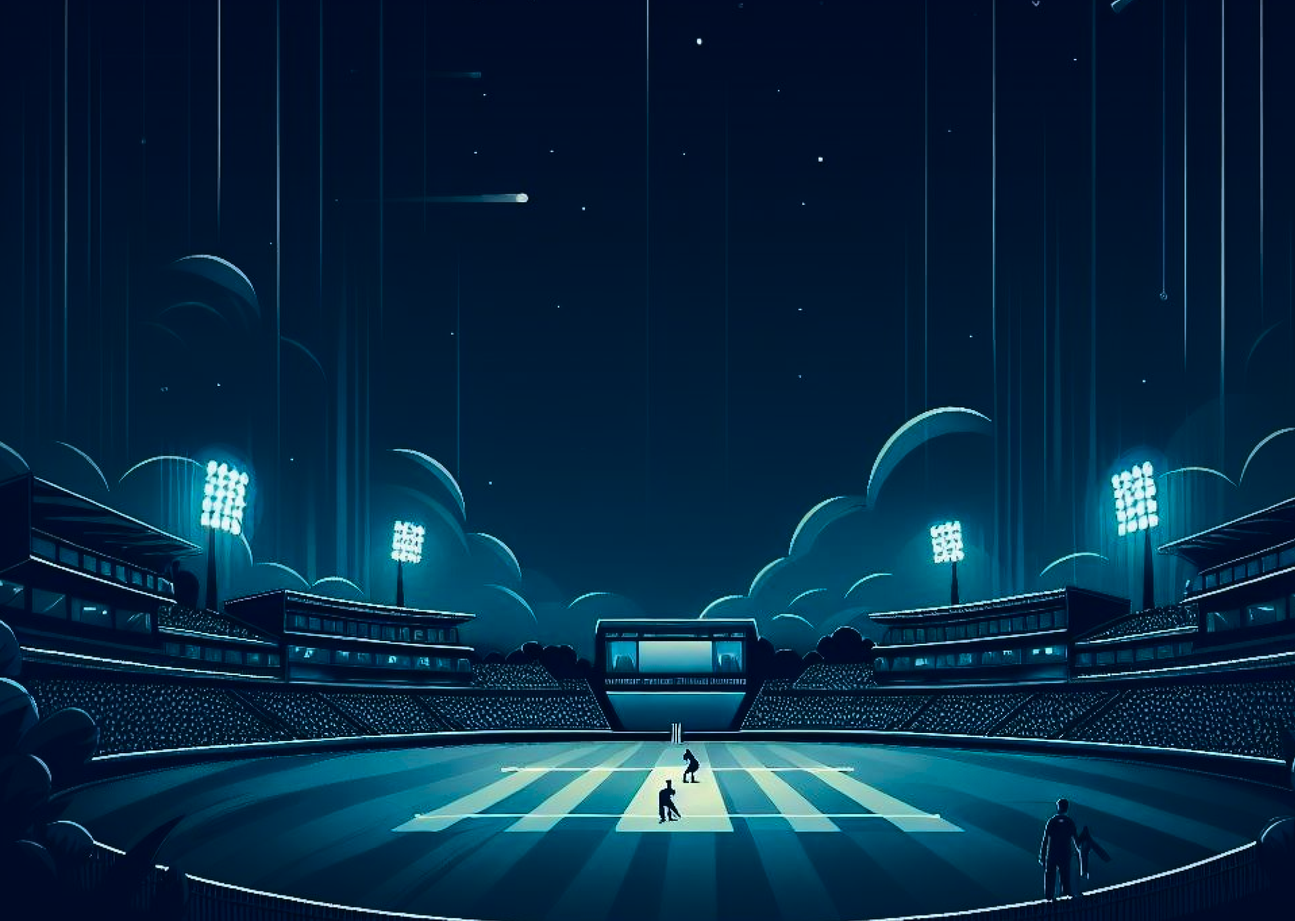
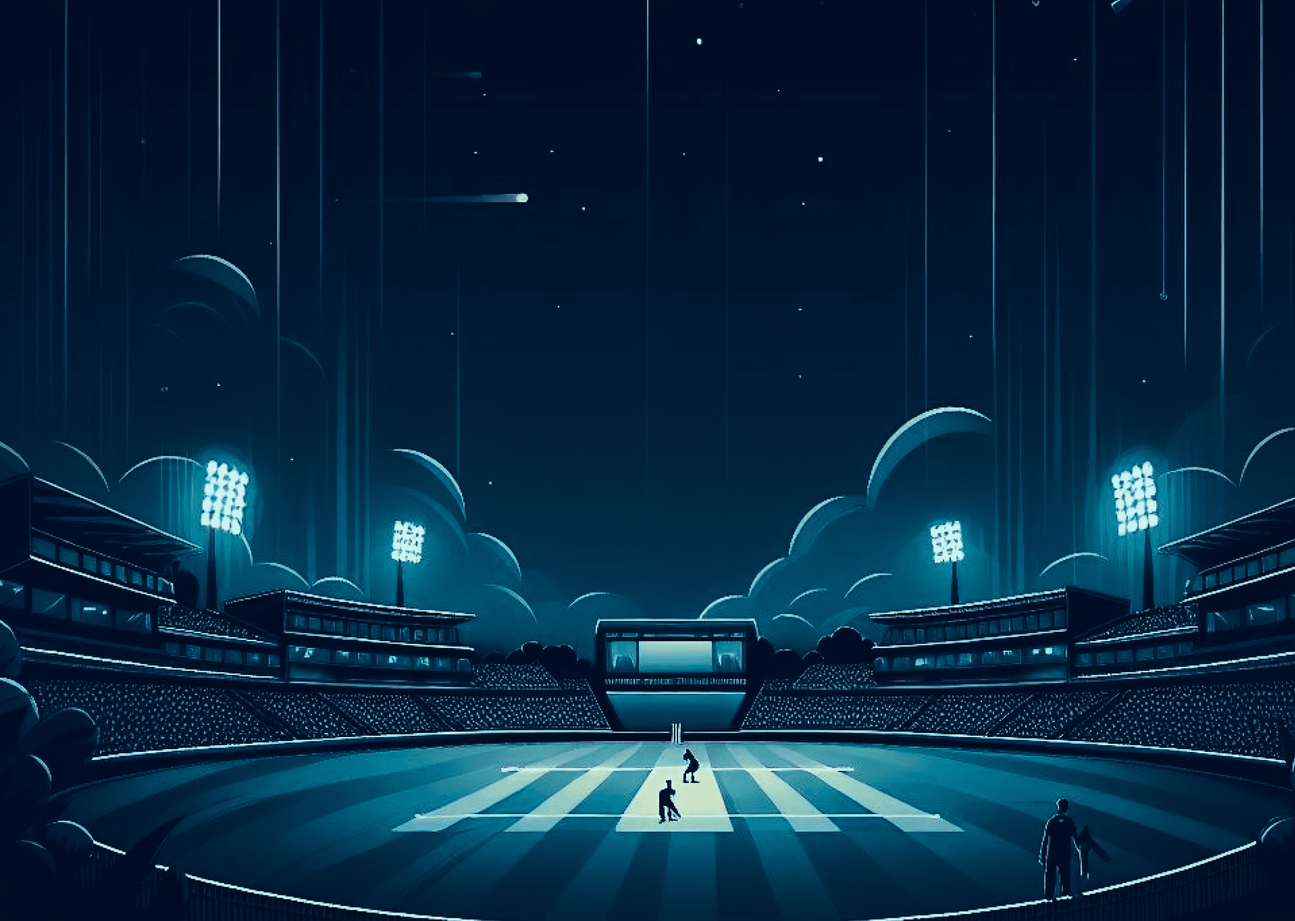
Update background

diff --git a/src/components/DashboardPage/DashboardPage.jsx b/src/components/DashboardPage/DashboardPage.jsx
@@ -48,7 +48,7 @@ const TeamPlayers = ({ type, data }) => {
       <div className='flex flex-wrap items-center justify-evenly'>
         {data.map(player => (
           player.type === type &&
-          <div className="px-16 py-8" key={player.playerName}>
+          <div className="px-8 py-4" key={player.playerName}>
             <Card data={player} />
           </div>
         ))}

diff --git a/src/App.css b/src/App.css
@@ -55,9 +55,9 @@ a:hover {
 
 body {
   background-image: url('/images/background/main.png');
-  background-size: 100% 100%;
+  background-size: cover;
   background-repeat: no-repeat;
-  background-position: bottom;
+  background-position: center;
   min-width: 320px;
   min-height: 100vh;
 }

diff --git a/src/components/DashboardPage/DashboardPage.css b/src/components/DashboardPage/DashboardPage.css
@@ -4,7 +4,7 @@
   grid-template-rows: auto 1fr;
   grid-template-columns: 1.3fr 5fr;
   width: 100%;
-  height: 100vh;
+  /* height: 100%; */
 }
 
 .team-container {
